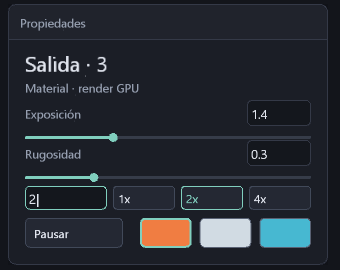
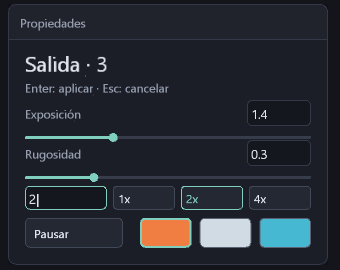
fix(estudio): confirma Enter después del texto pendiente de Windows

Changed region(s): [[0.0588, 0.2963, 0.5, 0.3556]]

diff --git a/crates/telar-app/tests/controles.rs b/crates/telar-app/tests/controles.rs
@@ -1,11 +1,58 @@
 //! Los controles del inspector no deben mover la cámara ni la fase pausada.
-#![allow(clippy::float_cmp, reason = "estado exacto y ausencia de cambios tras eventos")]
+#![allow(clippy::float_cmp, clippy::expect_used, reason = "estado exacto y mensajes de prueba conocidos")]
 #[path = "../src/controles.rs"]
 mod controles;
 
 use controles::Controles;
 use telar_ui::Distribucion;
 use telar_ventana::{Boton, Evento, Tecla};
+
+#[test]
+fn enter_confirma_despues_del_texto_pendiente_de_windows() {
+    use telar_ventana::evento::{WM_CHAR, WM_KEYDOWN, traducir};
+    let mut control = Controles::nuevo(true);
+    let d = control.estudio.distribucion((1280, 720));
+    let r = d.valor(0);
+    control.estudio.pulsar(d, r.x + 4.0, r.y + 4.0);
+    // TranslateMessage puede dejar WM_CHAR detrás de teclas ya encoladas.
+    control.evento(traducir(WM_KEYDOWN, 13, 0).expect("Enter traducido"), d);
+    for c in ['0', '.', '4', '2', '\r'] {
+        control.evento(traducir(WM_CHAR, c as usize, 0).expect("carácter traducido"), d);
+    }
+    assert_eq!(control.estudio.onda.amplitud, 0.42);
+    assert!(!control.estudio.editando_numero());
+}
+
+#[test]
+fn enter_numerico_y_retroceso_respetan_el_orden_y_no_aplican_valores_invalidos() {
+    use telar_ventana::evento::{WM_CHAR, WM_KEYDOWN, traducir};
+    for extendido in [0, 1 << 24] {
+        let mut control = Controles::nuevo(true);
+        let d = control.estudio.distribucion((1280, 720));
+        let r = d.valor(0);
+        control.estudio.pulsar(d, r.x + 4.0, r.y + 4.0);
+        control.evento(traducir(WM_KEYDOWN, 8, 0).expect("retroceso"), d);
+        control.evento(traducir(WM_KEYDOWN, 13, extendido).expect("Enter principal/numérico"), d);
+        for c in ['0', '.', '4', '2', '\u{8}', '1', '\r'] {
+            control.evento(traducir(WM_CHAR, c as usize, 0).expect("carácter"), d);
+        }
+        assert_eq!(control.estudio.onda.amplitud, 0.41);
+        assert!(!control.estudio.editando_numero());
+        control.estudio.seleccionado = 3;
+        let r = d.numero_muestras();
+        control.estudio.pulsar(d, r.x + 4.0, r.y + 4.0);
+        control.evento(Evento::Texto('3'), d);
+        control.evento(Evento::Tecla(Tecla::Otra(13)), d);
+        control.evento(Evento::Texto('\r'), d);
+        assert_eq!(control.estudio.salida.muestras, 2);
+        assert!(control.estudio.editando_numero());
+        control.evento(Evento::Tecla(Tecla::Otra(46)), d);
+        control.evento(Evento::Texto('4'), d);
+        control.evento(Evento::Texto('\r'), d);
+        assert_eq!(control.estudio.salida.muestras, 4);
+        assert!(!control.estudio.editando_numero());
+    }
+}
 
 #[test]
 fn escribir_no_activa_atajos_y_escape_no_cambia_parametros() {
@@ -17,6 +64,7 @@ fn escribir_no_activa_atajos_y_escape_no_cambia_parametros() {
         control.evento(Evento::Texto(c), d);
     }
     control.evento(Evento::Tecla(Tecla::Otra(13)), d);
+    control.evento(Evento::Texto('\r'), d);
     assert_eq!(control.estudio.onda.amplitud, 0.42);
     control.estudio.pulsar(d, r.x + 4.0, r.y + 4.0);
     control.evento(Evento::Texto('0'), d);

diff --git a/crates/telar-ui/src/numero.rs b/crates/telar-ui/src/numero.rs
@@ -131,6 +131,21 @@ impl Estudio {
             .map_or_else(|| normal.into(), |e| format!("{}|", e.texto))
     }
 
+    pub(crate) fn ayuda_numero(&self) -> Option<String> {
+        self.edicion.as_ref().map(|edicion| {
+            if !edicion.error {
+                return "Enter: aplicar · Esc: cancelar".into();
+            }
+            match edicion.campo {
+                Campo::Muestras => "MSAA válido: 1, 2 o 4 · Esc: cancelar".into(),
+                Campo::Control(indice) => self.control(indice).map_or_else(
+                    || "Parámetro no disponible · Esc: cancelar".into(),
+                    |c| format!("Rango: {}..{} · Enter: aplicar", c.minimo, c.maximo),
+                ),
+            }
+        })
+    }
+
     pub(crate) fn estilo_numero(&self, campo: Campo) -> telar_estilo::Estilo {
         let edicion = self.edicion.as_ref().filter(|e| e.campo == campo && e.nodo == self.seleccionado);
         let mut estilo = self.estilo("valor", false, edicion.is_some());

diff --git a/crates/telar-ui/src/dibujo.rs b/crates/telar-ui/src/dibujo.rs
@@ -145,11 +145,18 @@ fn inspector(estudio: &Estudio, lienzo: &mut Lienzo, diseno: Distribucion) {
         &titulo,
         &estudio.estilo("titulo", false, false),
     );
+    let ayuda = estudio.ayuda_numero();
     texto(
         lienzo,
         [contenido.x, diseno.ajustes.y + 74.0, contenido.ancho, 18.0],
-        ["Generador · GPU residente", "Deformación · animación", "Altura y normales · HILO", "Material · render GPU"]
-            [indice_tipo],
+        ayuda.as_deref().unwrap_or(
+            [
+                "Generador · GPU residente",
+                "Deformación · animación",
+                "Altura y normales · HILO",
+                "Material · render GPU",
+            ][indice_tipo],
+        ),
         &etiqueta,
     );
     for indice in 0..2 {

diff --git a/crates/telar-app/src/controles.rs b/crates/telar-app/src/controles.rs
@@ -123,10 +123,12 @@ impl Controles {
             return false;
         }
         let entrada = match evento {
+            // El texto traducido puede llegar después de WM_KEYDOWN ya encolados.
+            // Enter/retroceso se aplican en el mismo flujo que los caracteres.
+            Evento::Texto('\r' | '\n') => N::Confirmar,
+            Evento::Texto('\u{8}') => N::Retroceso,
             Evento::Texto(c) => N::Caracter(c),
             Evento::Tecla(Tecla::Escape) => N::Cancelar,
-            Evento::Tecla(Tecla::Otra(13)) => N::Confirmar,
-            Evento::Tecla(Tecla::Otra(8)) => N::Retroceso,
             Evento::Tecla(Tecla::Otra(46)) => N::Borrar,
             Evento::Tecla(Tecla::Otra(9 | 116 | 120)) => {
                 self.estudio.editar_numero(N::Confirmar);

diff --git a/crates/telar-app/tests/calidad_visor.rs b/crates/telar-app/tests/calidad_visor.rs
@@ -127,6 +127,7 @@ fn comprobar_red(control: &mut controles::Controles, gpu: &mut Gpu) {
         control.evento(Evento::Texto(c), d);
     }
     control.evento(Evento::Tecla(telar_ventana::Tecla::Otra(13)), d);
+    control.evento(Evento::Texto('\r'), d);
     assert!(grafo::sincronizar(gpu, control).unwrap());
     assert!(!grafo::sincronizar(gpu, control).unwrap(), "no recompila en cuadros estables");
     sesion::guardar(&ruta, control).unwrap();

diff --git a/docs/GRAFO-EDITABLE.md b/docs/GRAFO-EDITABLE.md
@@ -15,6 +15,12 @@ de F5/F9/Tab. Si el texto es inválido, el borde se vuelve rojo y el campo manti
 el foco: se corrige o cancela antes de continuar. La escena conserva su último
 valor válido durante la edición. Los atajos globales quedan suspendidos al escribir.
 
+El inspector muestra `Enter: aplicar · Esc: cancelar` mientras se escribe. Si
+el valor no es válido, muestra el rango o los niveles MSAA admitidos. Enter
+(principal o numérico) y retroceso se procesan desde sus caracteres traducidos
+de Windows, para conservar el orden con el texto pendiente de la misma ráfaga.
+La regresión de este orden se verifica en `telar-app/tests/controles.rs`.
+
 Se admiten decimales, coma decimal y notación científica en los parámetros reales.
 Rejilla exige un entero en 2..capacidad. Se rechazan NaN, infinitos, exceso y valores
 fuera del dominio. La representación muestra el valor f32 almacenado sin forzar
